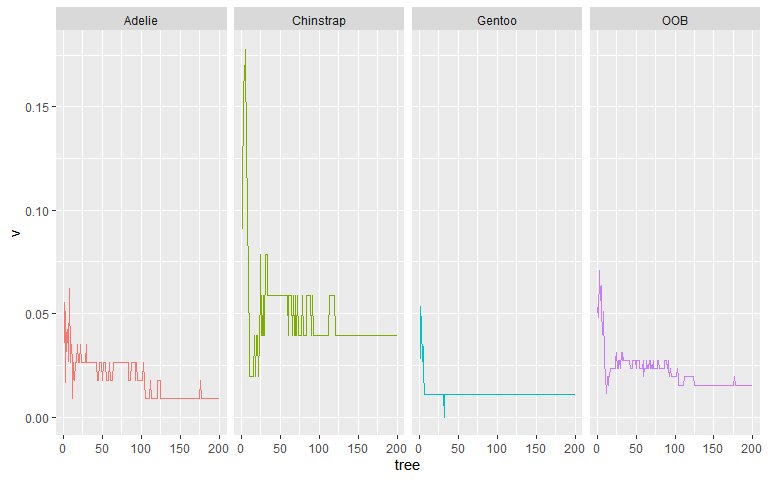
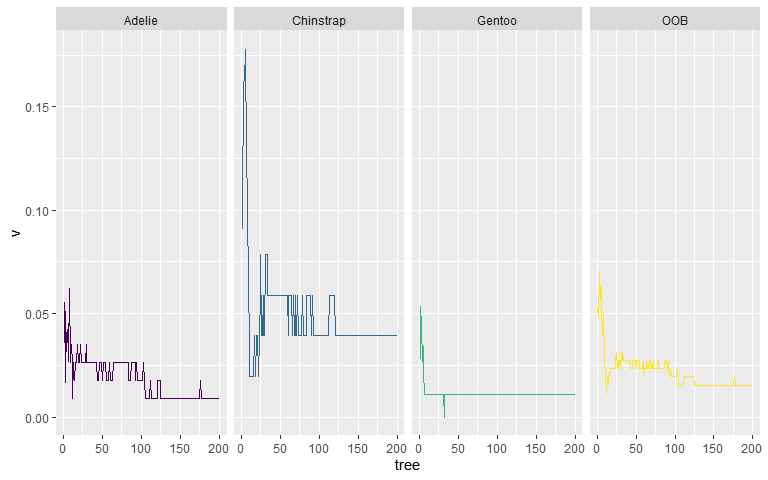
Change colour to viridis

diff --git a/2020-07-28-palmer-penguins/README.md b/2020-07-28-palmer-penguins/README.md
@@ -189,7 +189,8 @@ rfmod$err.rate %>%
   ggplot(aes(tree, v, col=k))+
   geom_line()+
   facet_wrap(~k, nrow=1)+
-  theme(legend.position = "")
+  theme(legend.position = "")+
+  scale_colour_viridis_d()
 ```
 
 ![](README_files/figure-gfm/unnamed-chunk-14-1.png)<!-- -->
